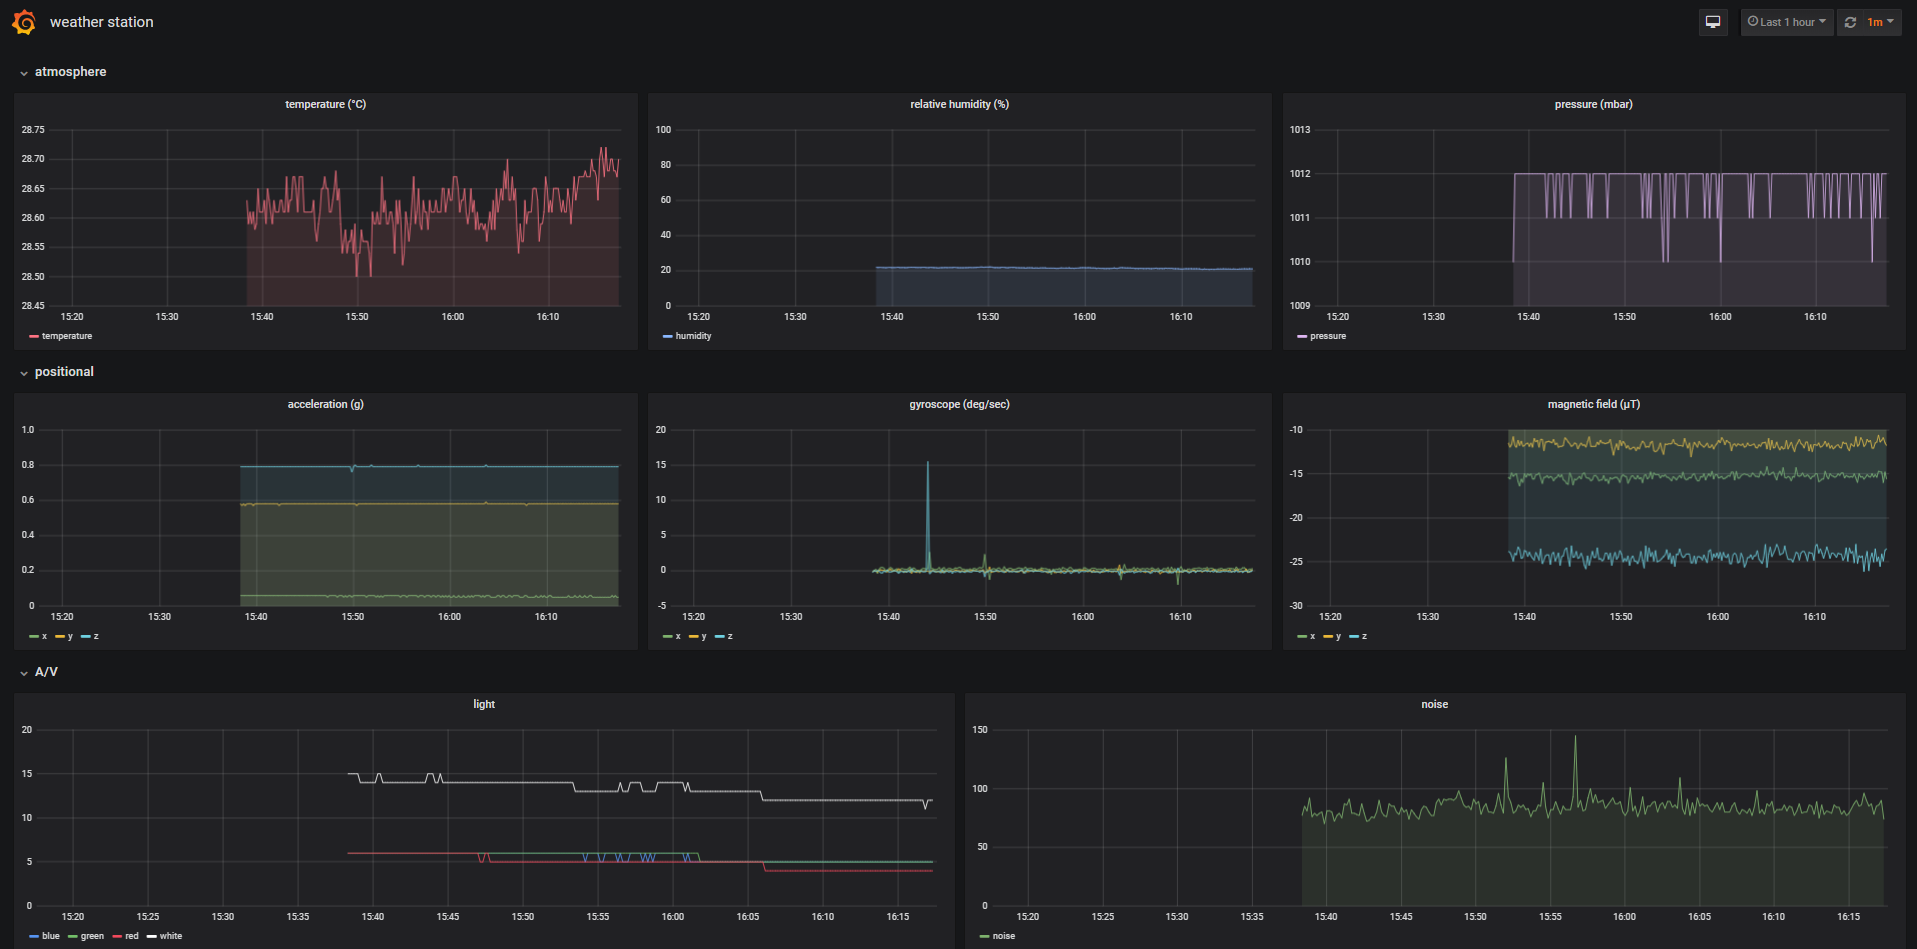
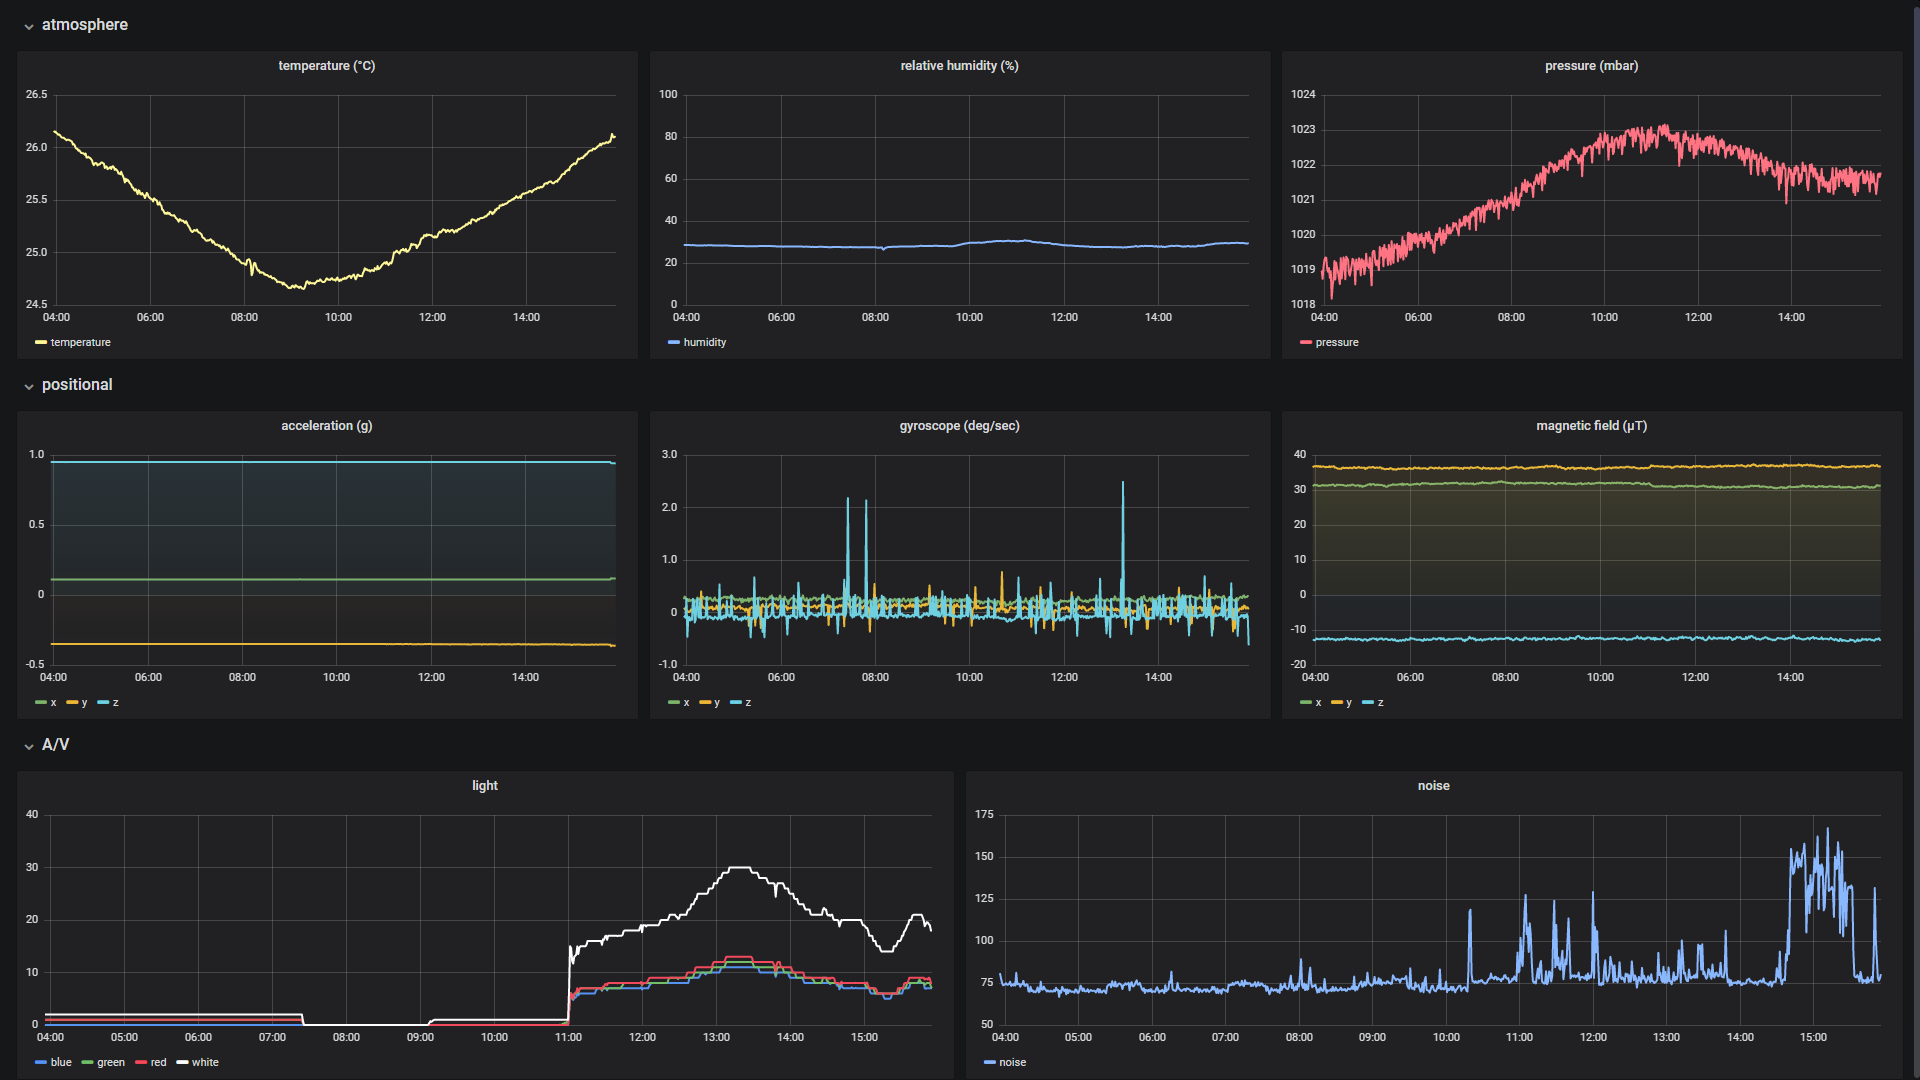
updated Grafana screenshot

diff --git a/README.md b/README.md
@@ -35,6 +35,6 @@ One way to do this is to do FFT from the waveform and generate the spectral comp
 
 Surprisingly, the Arduino is fast enough for real time FFT.
 
-## Example of Grafana dashboard while testing (incomplete data)
+## Example of Grafana dashboard with sensor data
 
 ![Grafana](/images/grafana-test.png)
